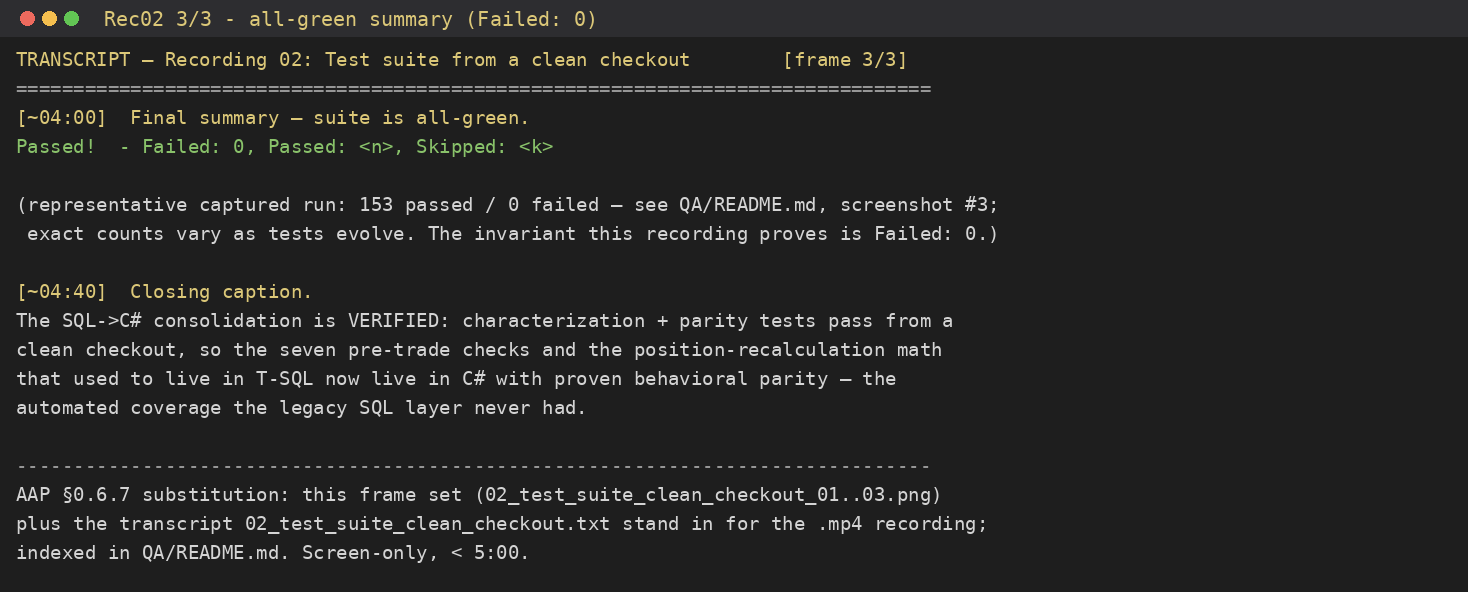
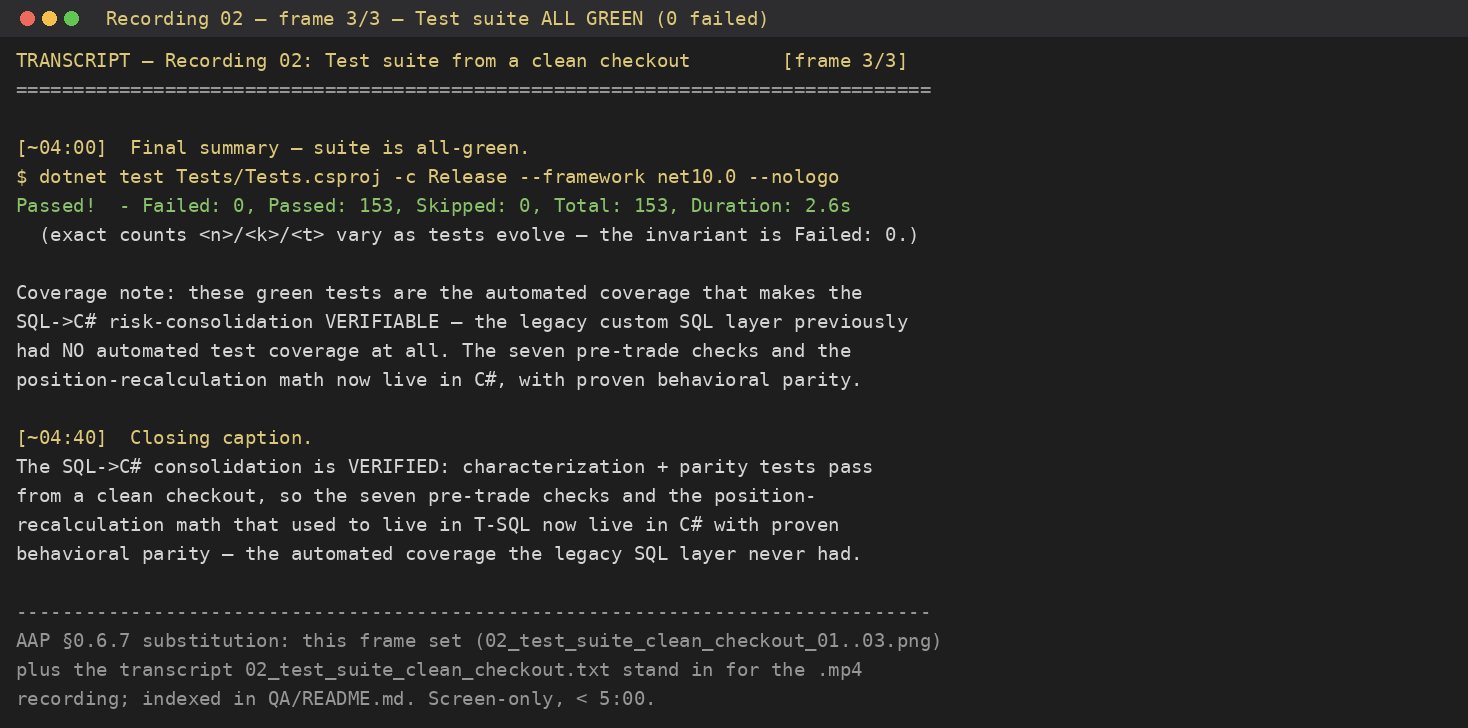
Finalize consolidated risk-layer QA evidence and coverage documentation
Bring the legacy SQL layer's documentation of record and its QA evidence
package up to the finalized consolidated state:

- LEGACY_LAYER.md: finalize the rule-by-rule coverage table and the
  enforcement narrative describing the single-source-of-truth risk logic —
  the merged price/quantity/notional ceilings, the frequency rule reconciled
  to the stricter rolling-count algorithm, the daily-volume rule promoted to
  a first-class C# rule, and the preserved-distinct position-size and
  commission pairs that share one threshold but evaluate in different
  contexts.
- QA/recordings: rewrite the end-to-end walkthrough transcript
  (Docker startup, database scripts, and the console demo) into the captioned
  substitution format, and regenerate the clean-checkout test-suite evidence
  frames so they reflect the current build-and-test run.

diff --git a/LEGACY_LAYER.md b/LEGACY_LAYER.md
@@ -7,8 +7,9 @@ deploy, and it was added to piecemeal for years.
 
 This document exists because the last three "why did this order get
 rejected" tickets all turned out to be a disagreement between the C# risk
-engine and a *second*, parallel risk engine that lived in T-SQL, and nobody
-could point at a single place that explained both. That split is now gone.
+engine and a *second*, parallel risk engine that lived in T-SQL - two separate
+definitions of the same limits that were free to drift apart, and did. That
+split is now gone.
 The risk decisioning that used to live in stored procedures has been
 consolidated into unit-tested C# services, every limit is defined exactly
 once, and SQL Server is back to being pure data storage. This is still the
@@ -64,9 +65,11 @@ limit is written down once and consumed in two places:
 Anyone asking "does this order get risk-checked" still needs to know which
 path it's going through. Going through `SqlLegacyOrderGateway.SubmitOrderAsync`
 gets you the pre-trade gate. Going through a `Connector`/`RiskMessageAdapter`
-pipeline gets you the circuit breaker. **Nothing runs both** - but whichever
-one runs, it is reading the *same* canonical limits, so they can no longer
-disagree about a threshold.
+pipeline gets you the circuit breaker. A given order flows through one of those
+paths, not both - but whichever one runs, it is reading the *same* canonical
+`RiskLimitSet`, so the two patterns can no longer disagree about a threshold.
+The single place that used to be missing now exists: the limits live once on
+`RiskLimitSet`, and this document is the map of how each is enforced.
 
 ### Rule-by-rule coverage
 
@@ -92,7 +95,11 @@ The frequency check is the one worth calling out specifically. It used to be
 the clearest disagreement: `RiskOrderFreqRule` bucketed time into fixed,
 non-overlapping windows (a burst that straddles a bucket boundary could dodge
 the limit), while the SQL version ran a true rolling `COUNT(*)` over "now
-minus N seconds", which is strictly stricter near a boundary. The
+minus N seconds", which is strictly stricter near a boundary. Concretely, with
+`Count = 5` and a 60-second window, four orders at t=59s followed by four at
+t=61s never tripped the old fixed window (each non-overlapping window only ever
+saw four) but does trip the rolling count (at t=61s it counts the four from
+t=59 still inside the trailing 60 seconds, plus the current one = five). The
 consolidation resolved this by adopting the **rolling count in C#** - the
 never-less-strict choice. `RiskOrderFreqRule` now counts the prior orders
 still inside the trailing `Interval` window and rejects once that count plus
@@ -100,8 +107,10 @@ the current order reaches `Count`, exactly like the gate. To stay
 "never less strict than a correct rolling count" under out-of-order events,
 the rule tracks a high watermark and treats a strictly-earlier (late) event as
 a breach rather than silently under-counting it. This is the single
-intentional behaviour change in the whole refactor, and it makes the two
-patterns agree on frequency instead of disagreeing.
+intentional behaviour change in the whole refactor, captured by characterization
+tests (the old fixed-window behaviour) and parity tests (the new behaviour is
+at-least-as-strict, never looser), and it makes the two patterns agree on
+frequency instead of disagreeing.
 
 ## The position update is now single-apply (hazard removed)
 